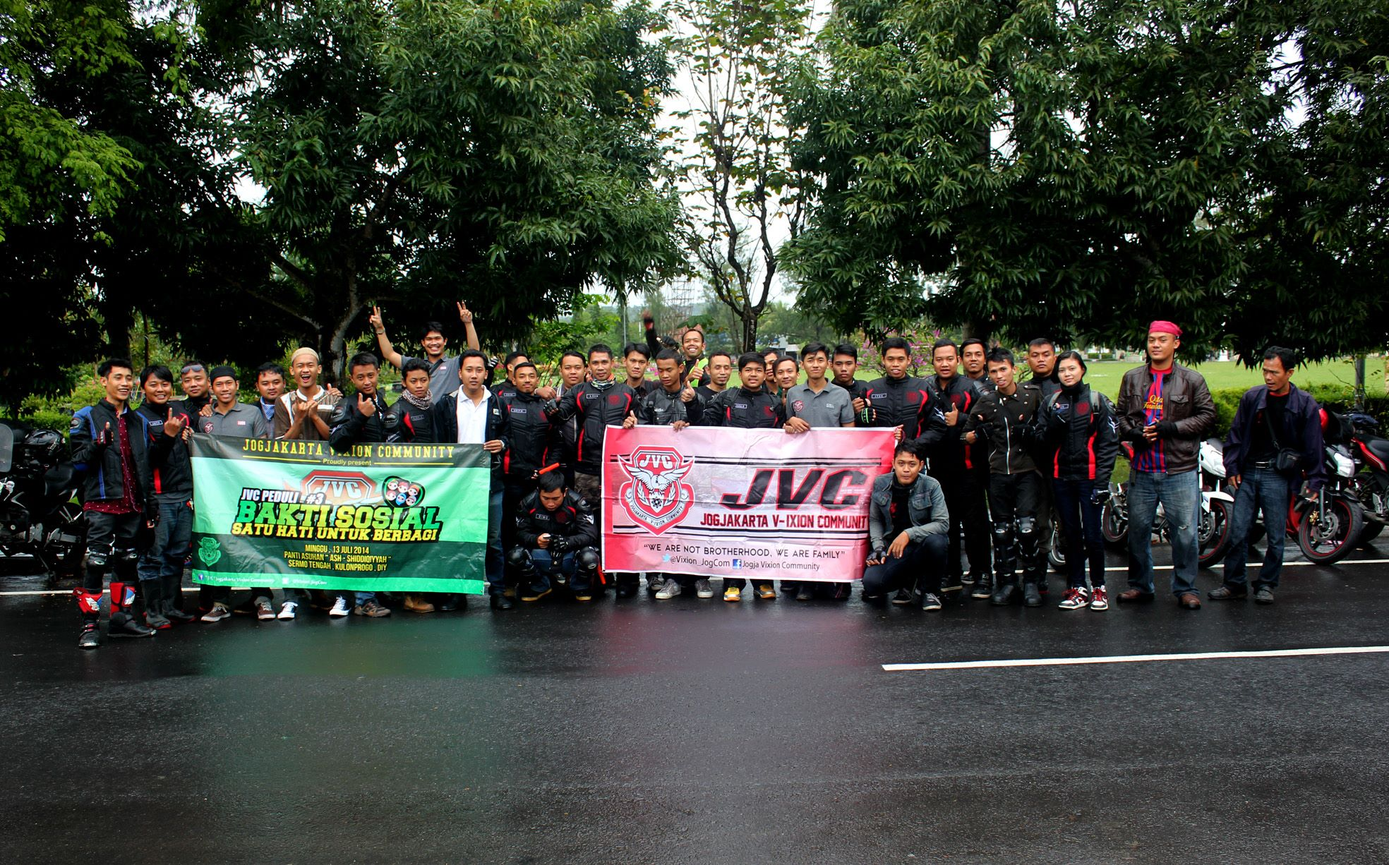
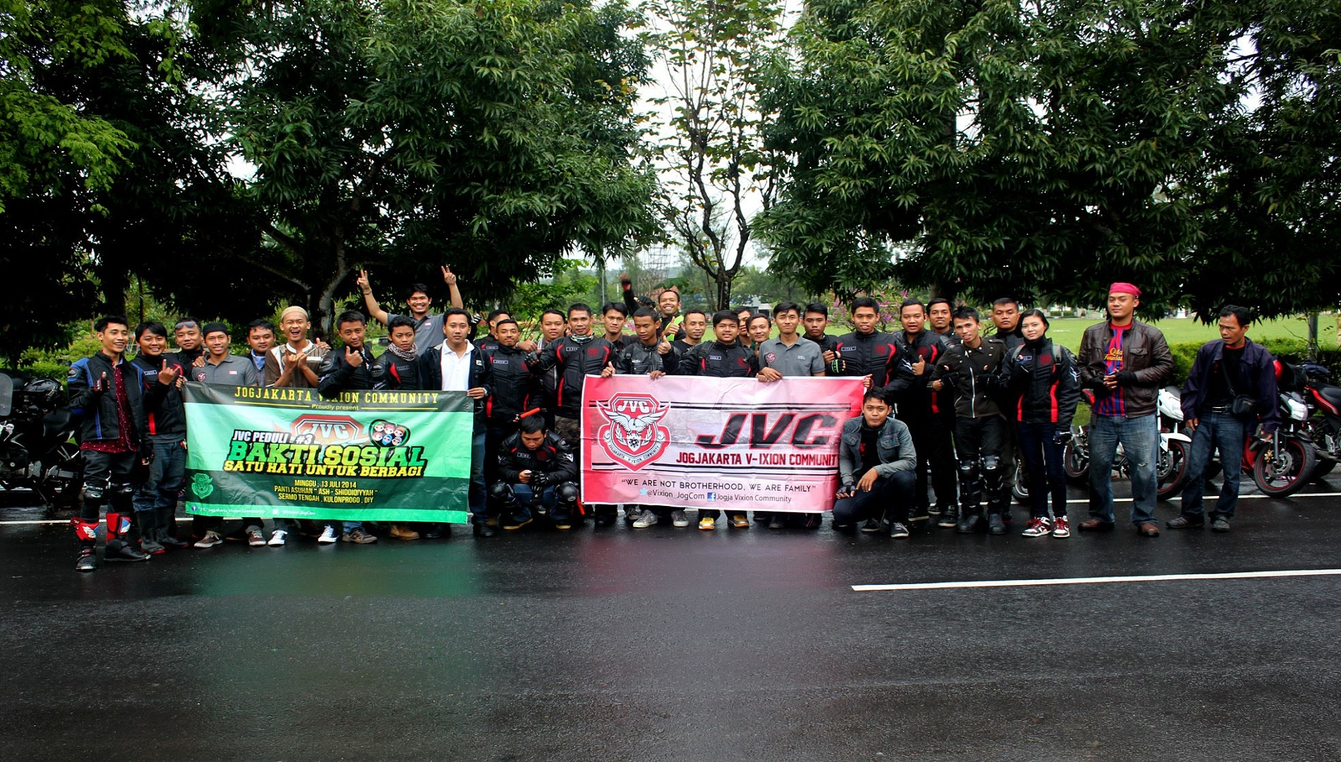
edit resolusi image

diff --git a/readme.rst b/readme.rst
@@ -1,4 +1,70 @@
-**WEB JVC WITH CI AND BOOTSTRAP FRAMEWORK**
+###################
+What is CodeIgniter
+###################
 
-* Dilarang Clone langsung dari repo ini, fork dulu baru clone dari repo sendiri.
-* Jika selesai develop langsung pull request.
+CodeIgniter is an Application Development Framework - a toolkit - for people
+who build web sites using PHP. Its goal is to enable you to develop projects
+much faster than you could if you were writing code from scratch, by providing
+a rich set of libraries for commonly needed tasks, as well as a simple
+interface and logical structure to access these libraries. CodeIgniter lets
+you creatively focus on your project by minimizing the amount of code needed
+for a given task.
+
+*******************
+Release Information
+*******************
+
+This repo contains in-development code for future releases. To download the
+latest stable release please visit the `CodeIgniter Downloads
+<https://codeigniter.com/download>`_ page.
+
+**************************
+Changelog and New Features
+**************************
+
+You can find a list of all changes for each release in the `user
+guide change log <https://github.com/bcit-ci/CodeIgniter/blob/develop/user_guide_src/source/changelog.rst>`_.
+
+*******************
+Server Requirements
+*******************
+
+PHP version 5.5 or newer is recommended.
+
+It should work on 5.2.4 as well, but we strongly advise you NOT to run
+such old versions of PHP, because of potential security and performance
+issues, as well as missing features.
+
+************
+Installation
+************
+
+Please see the `installation section <https://codeigniter.com/user_guide/installation/index.html>`_
+of the CodeIgniter User Guide.
+
+*******
+License
+*******
+
+Please see the `license
+agreement <https://github.com/bcit-ci/CodeIgniter/blob/develop/user_guide_src/source/license.rst>`_.
+
+*********
+Resources
+*********
+
+-  `User Guide <https://codeigniter.com/docs>`_
+-  `Language File Translations <https://github.com/bcit-ci/codeigniter3-translations>`_
+-  `Community Forums <http://forum.codeigniter.com/>`_
+-  `Community Wiki <https://github.com/bcit-ci/CodeIgniter/wiki>`_
+-  `Community IRC <https://webchat.freenode.net/?channels=%23codeigniter>`_
+
+Report security issues to our `Security Panel <mailto:security@codeigniter.com>`_
+or via our `page on HackerOne <https://hackerone.com/codeigniter>`_, thank you.
+
+***************
+Acknowledgement
+***************
+
+The CodeIgniter team would like to thank EllisLab, all the
+contributors to the CodeIgniter project and you, the CodeIgniter user.
